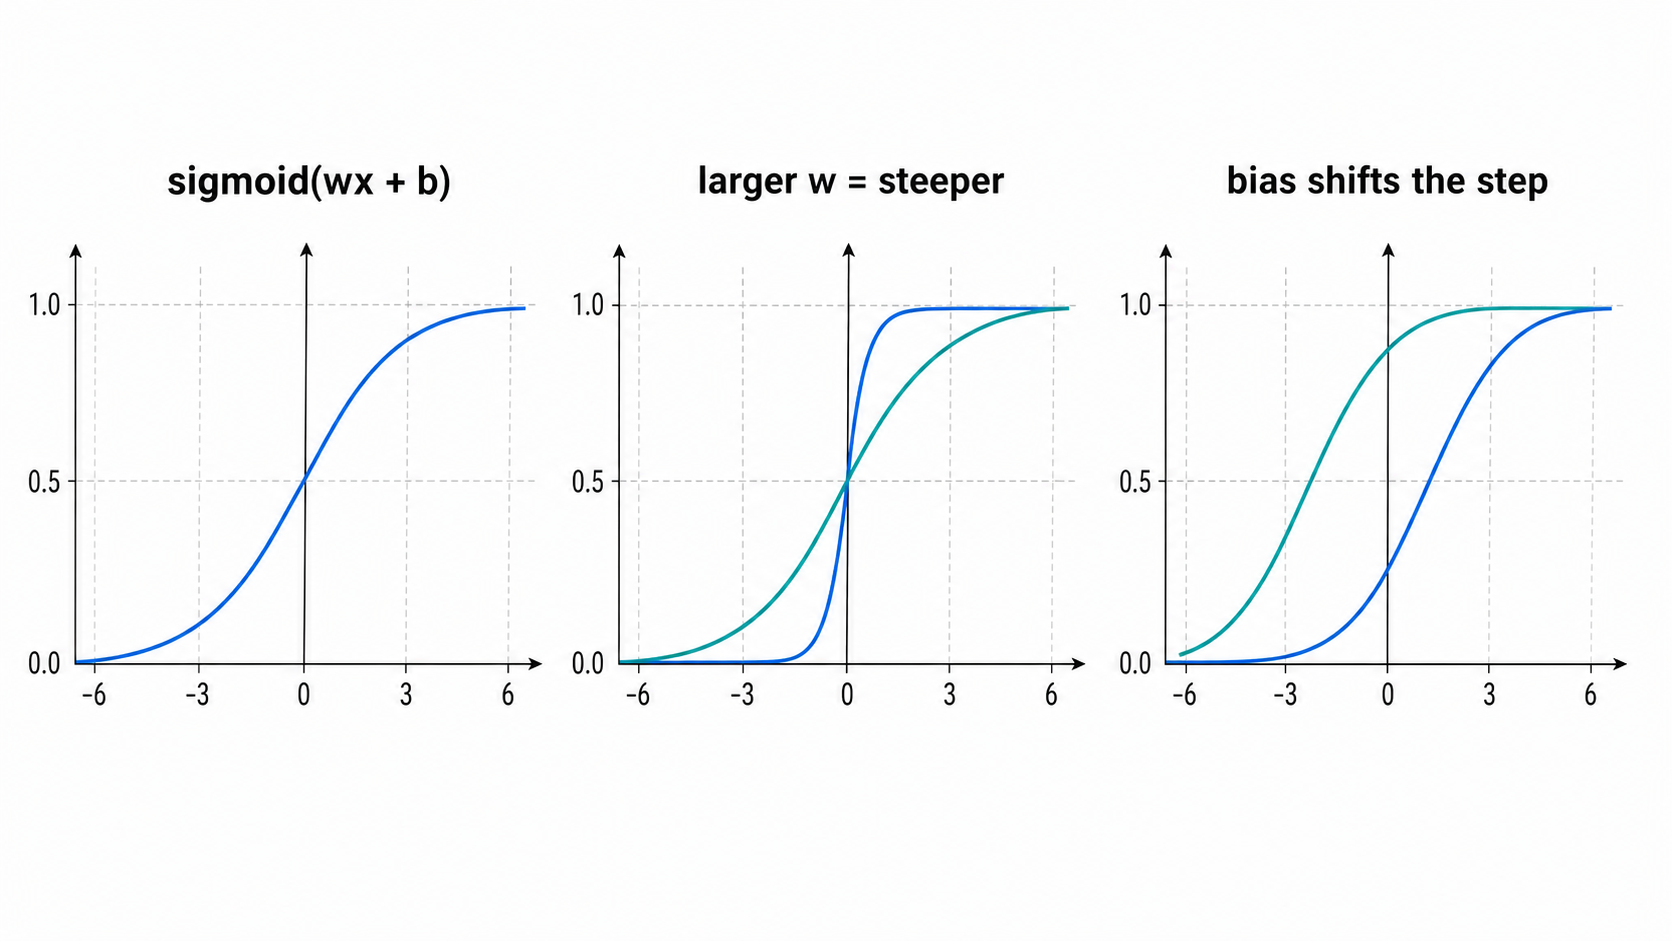
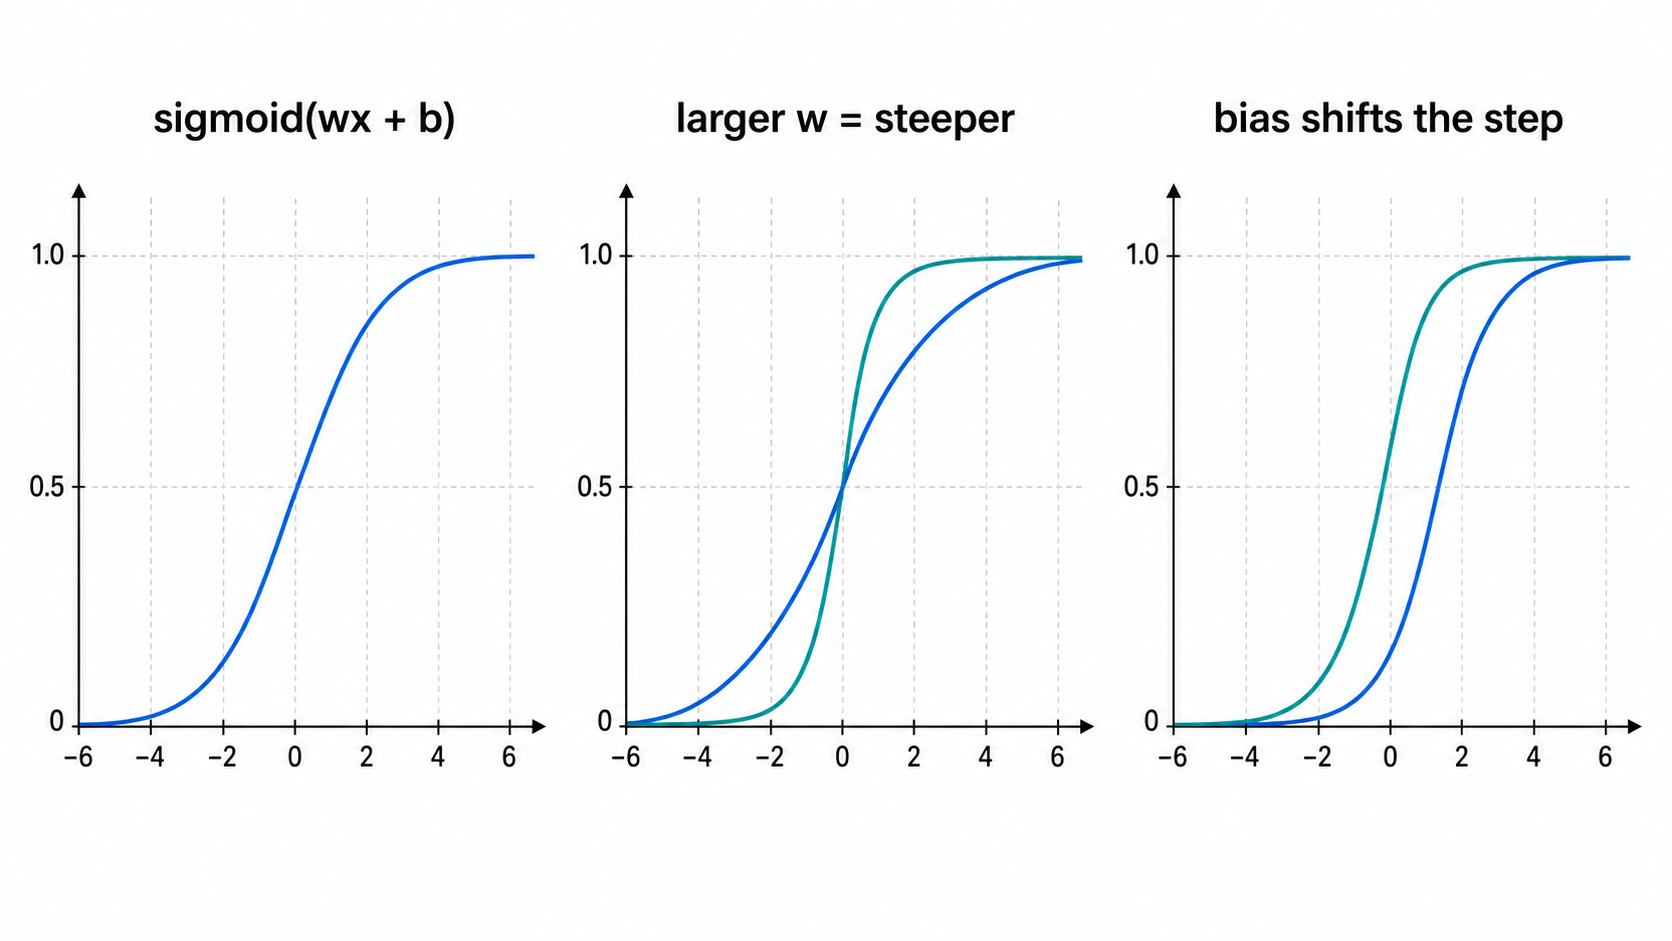
Refine approximation diagrams

diff --git a/leap_year_uat_demo.py b/leap_year_uat_demo.py
@@ -2,21 +2,21 @@
 
 This follows the visual idea in Michael Nielsen's universal approximation
 chapter: a sigmoid neuron with a large weight behaves like a soft step. Two
-opposing steps make a narrow bump, and many bumps can approximate a function's
-graph.
+shifted steps can be subtracted to make a narrow tower, and many towers can
+approximate a function's graph.
 
 Here the input is the raw year. The hidden layer contains two sigmoid neurons
 for each leap year in the chosen fitting interval, 1600-2399:
 
-    left edge:   sigmoid(slope * x + bias_left)
-    right edge:  sigmoid(slope * x + bias_right)
+    left sigmoid:   sigmoid(slope * x + bias_left)
+    right sigmoid:  sigmoid(slope * x + bias_right)
 
 The final output-layer neuron takes all hidden activations as its inputs. In its
-pre-activation sum, each left-edge hidden activation gets a positive weight and
-each right-edge hidden activation gets a negative weight. Their difference
-creates one local bump for each known leap year; the final sigmoid then turns
-that bump sum into a 0-to-1 score. Outside the fitting interval there are no
-bumps, so the network does not extrapolate the Gregorian rule.
+pre-activation sum, each left sigmoid gets a positive weight and each right
+sigmoid gets a negative weight. Their difference creates one local tower for
+each known leap year; the final sigmoid turns the tower sum into a 0-to-1
+score. Outside the fitting interval there are no towers, so the network does
+not extrapolate the Gregorian rule.
 """
 
 from __future__ import annotations
@@ -103,20 +103,21 @@ class LeapYearApproximator:
             left_edge = leap_year - self.half_width
             right_edge = leap_year + self.half_width
 
-            # sigmoid(k * (x - edge)) is sigmoid(k * x - k * edge).
-            left_step = SigmoidNeuron(
+            # Left sigmoid: sigmoid(k * (x - left_edge)).
+            left_sigmoid = SigmoidNeuron(
                 weight=self.hidden_slope,
                 bias=-self.hidden_slope * left_edge,
             )
-            right_step = SigmoidNeuron(
+            # Right sigmoid: sigmoid(k * (x - right_edge)).
+            right_sigmoid = SigmoidNeuron(
                 weight=self.hidden_slope,
                 bias=-self.hidden_slope * right_edge,
             )
 
-            hidden_layer.extend([left_step, right_step])
+            hidden_layer.extend([left_sigmoid, right_sigmoid])
             output_weights.extend([self.output_slope, -self.output_slope])
 
-        # The hidden layer sums to about 1 on a leap-year bump and about 0
+        # The hidden layer sums to about 1 on a leap-year tower and about 0
         # elsewhere, so this output threshold sits halfway between them.
         output_neuron = OutputNeuron(
             weights=output_weights,

diff --git a/README.md b/README.md
@@ -104,7 +104,7 @@ weight = k
 bias   = -k * edge
 ```
 
-## 两个神经元组成一个 bump
+## 两个神经元组成一个 tower
 
 一个闰年点需要一个局部凸起。比如某个闰年是 `2000`，我们希望网络只在
 `2000` 附近输出高值，在旁边年份输出低值。
@@ -112,49 +112,52 @@ bias   = -k * edge
 代码会为每个闰年创建两个隐藏层神经元：
 
 ```text
-left_step  = sigmoid(k * (x - left_edge))
-right_step = sigmoid(k * (x - right_edge))
+left_sigmoid  = sigmoid(k * (x - left_edge))
+right_sigmoid = sigmoid(k * (x - right_edge))
 ```
 
-最终输出层神经元会接收所有隐藏层激活值。在它的加权求和部分，这两个隐藏激活
-分别拿到一正一负的权重：
+这两个 sigmoid 形状相同，只是由 `bias` 控制，分别向左、向右平移。`left_sigmoid`
+先从 0 跳到 1，`right_sigmoid` 稍晚一点从 0 跳到 1。
+
+最终输出层神经元会接收所有隐藏层激活值。在它的加权求和部分，左边的 sigmoid
+拿到正权重，右边的 sigmoid 拿到负权重：
 
 ```text
-+ output_slope * left_step
-- output_slope * right_step
++ output_slope * left_sigmoid
+- output_slope * right_sigmoid
 ```
 
 这一组的贡献就变成：
 
 ```text
-output_slope * (left_step - right_step)
+output_slope * (left_sigmoid - right_sigmoid)
 ```
 
-在 `left_edge` 和 `right_edge` 中间，`left_step` 接近 1，`right_step` 接近 0，
-所以差值接近 1；在区间外，两个值会同时接近 0 或同时接近 1，所以差值接近 0。
-这就形成了一个局部 bump。
+在两个 sigmoid 的跳变位置之间，`left_sigmoid` 已经接近 1，而 `right_sigmoid`
+仍然接近 0，所以差值接近 1；在这个区间外，两个值会同时接近 0 或同时接近 1，
+所以差值接近 0。这就形成了一个局部 tower，也就是一个窄的 bump。
 
-![Two sigmoid hidden neurons make a local bump](assets/two-sigmoids-bump.png)
+![Two sigmoid hidden neurons make a local tower](assets/two-sigmoids-tower.svg)
 
-## 多个 bump 拼出函数图像
+## 多个 tower 拼出函数图像
 
 在 `1600-2399` 内，每一个闰年都会得到这样一组两个隐藏神经元：
 
 ```text
-一个闰年 -> 两个 hidden neurons -> 一个局部 bump
+一个闰年 -> 两个 hidden neurons -> 一个局部 tower
 ```
 
 输出层把所有组的贡献加起来：
 
 ```text
-z = output_bias + sum(each bump contribution)
+z = output_bias + sum(each tower contribution)
 score = sigmoid(z)
 ```
 
-如果某一年命中了某个闰年 bump，`z` 会变大，最终 `score` 接近 1。
-如果没有任何 bump 被命中，`z` 主要由负的 `output_bias` 决定，最终 `score` 接近 0。
+如果某一年命中了某个闰年 tower，`z` 会变大，最终 `score` 接近 1。
+如果没有任何 tower 被命中，`z` 主要由负的 `output_bias` 决定，最终 `score` 接近 0。
 
-![Sum of bump contributions on the fitting interval](assets/bump-sum-fitting-interval.png)
+![Sum of tower contributions on the fitting interval](assets/tower-sum-fitting-interval.svg)
 
 ## 运行
 
